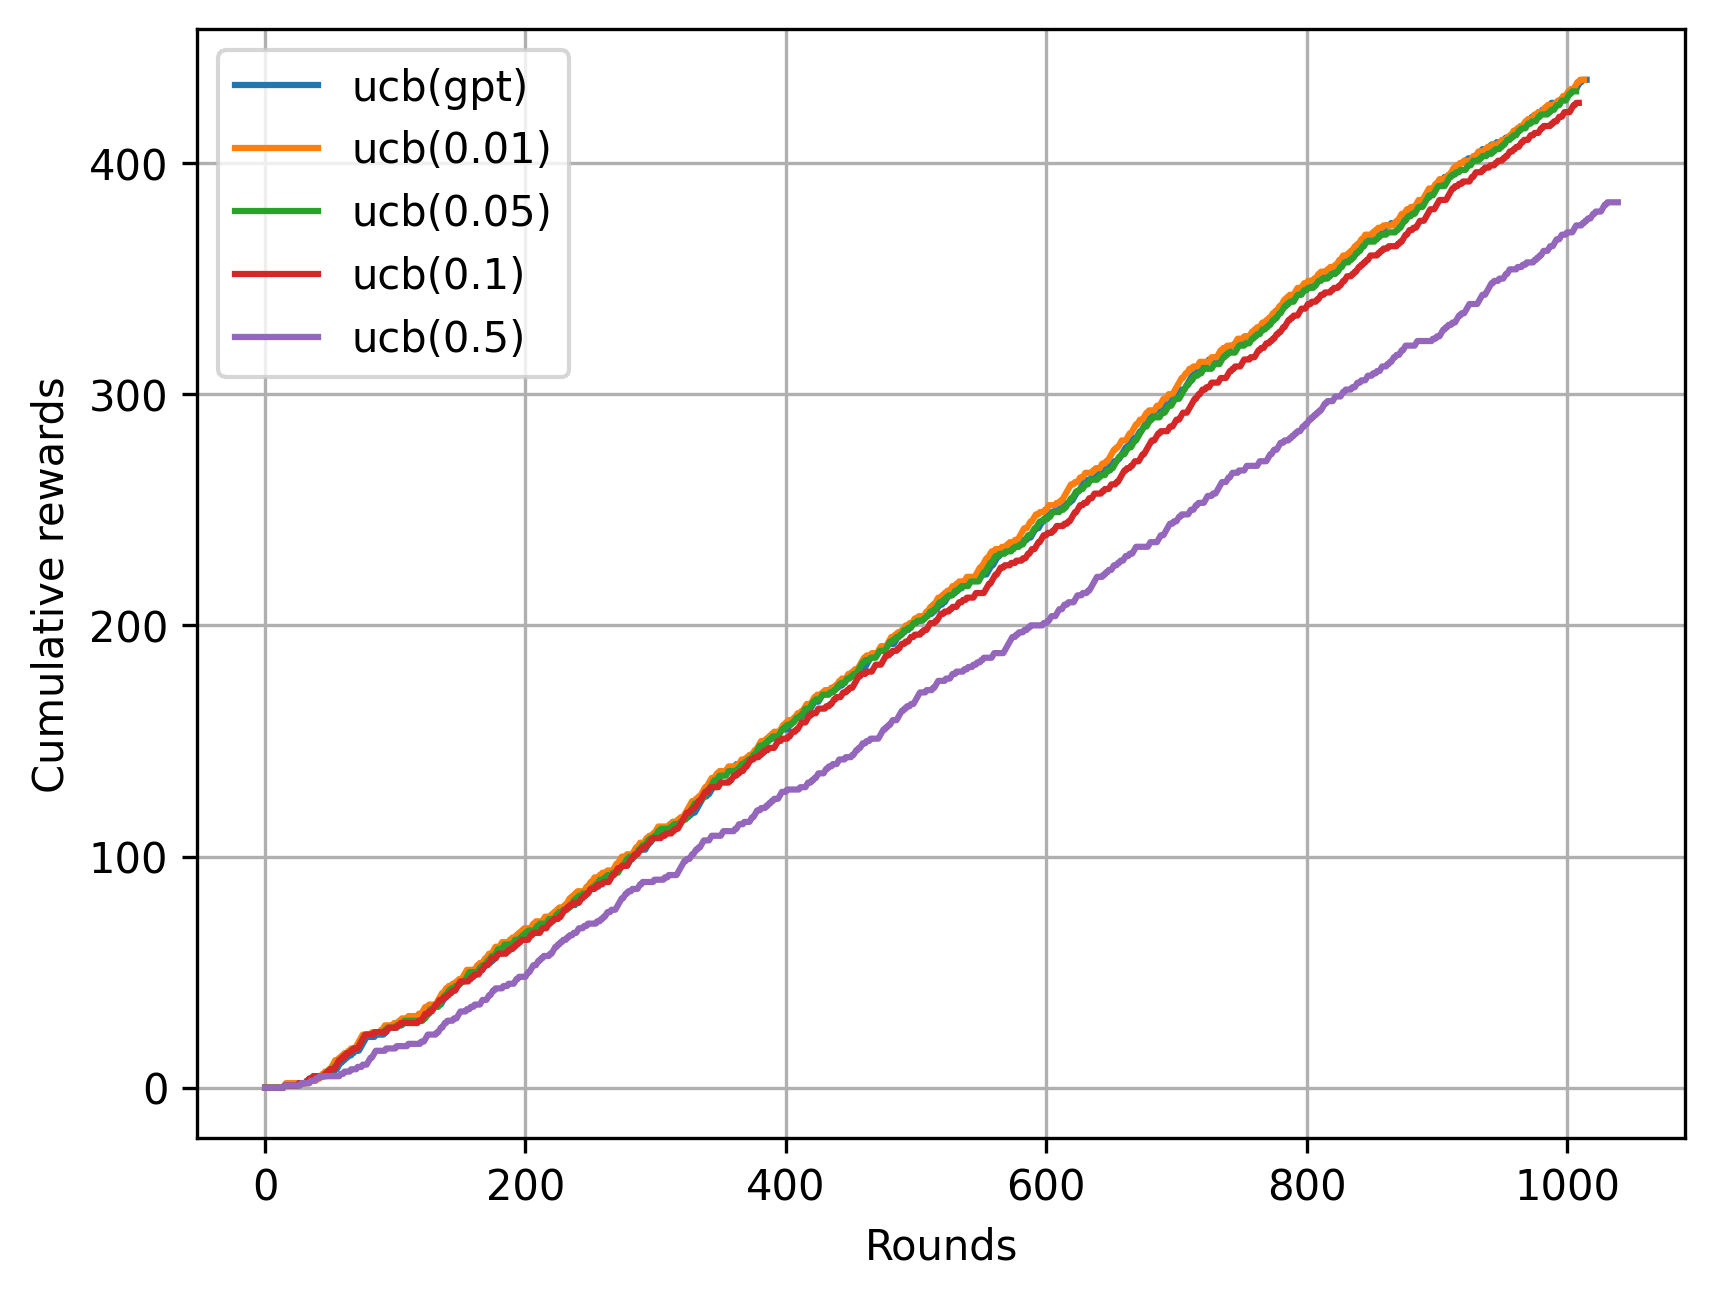
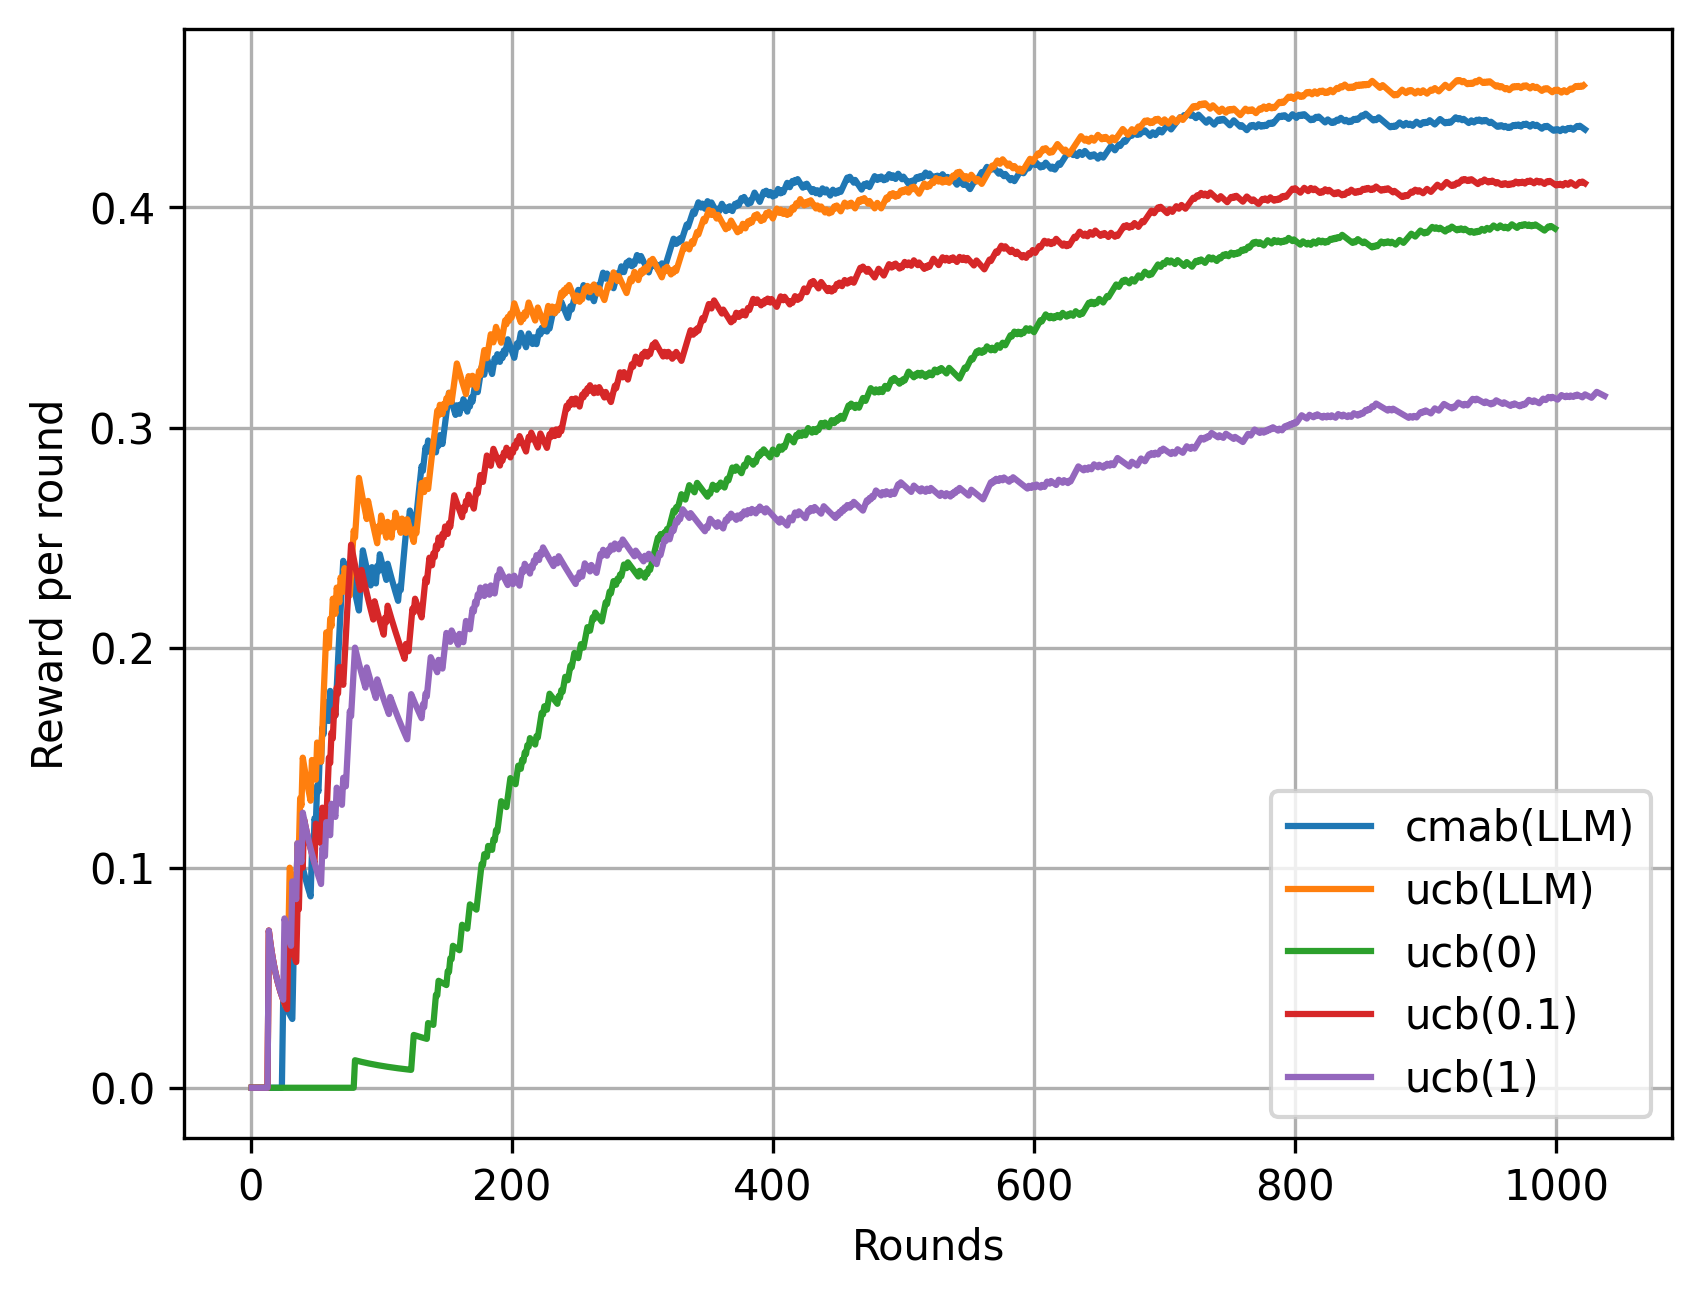
update

diff --git a/examples/webRecSystem.py b/examples/webRecSystem.py
@@ -2,21 +2,73 @@ import numpy as np
 import matplotlib.pyplot as plt
 from mpire import WorkerPool
 import copy
+import math
 
 from zomba.singleObjective.applications import webRecEnv
 from zomba.singleObjective.stochastic import SLBUCB
+from zomba.core import contextMABAgent
 
 
-def ucb_scalar1(round: int, observed_rewards: list, action_history: list) -> float:
-    return 1 / (round+1)
+def ucb_scalar(observed_rewards, action_history, counts):
+    total_counts = np.sum(counts)
+    arm_index = action_history[-1]  # Index of the most recent chosen arm
+    arm_count = counts[arm_index]
+    
+    if arm_count == 0:
+        return float('inf')  # Return infinity to ensure unexplored arms are chosen
+    
+    UCB_coefficient = np.sqrt(2 * np.log(total_counts) / arm_count)
+    
+    # Adjust UCB coefficient based on arm counts and selection frequency
+    adjusted_UCB_coefficient = UCB_coefficient * np.sqrt(np.log(total_counts) / (counts + 1)) * np.sqrt(arm_count / total_counts) * np.sqrt(np.log(total_counts) / (arm_count + 1)) * np.sqrt(np.log(total_counts) / (total_counts + 1)) * np.sqrt(1 / (counts + 1)) * np.sqrt(arm_count / total_counts)
+    
+    return adjusted_UCB_coefficient
 
+def ucb_scalar_log(round: int) -> float: 
+    return 1 / math.log(round+2)
 
-class ucb1(SLBUCB): 
+class ucb_log(SLBUCB): 
     def take_action(self, context: np.ndarray, alpha: float = None) -> int:
-        alpha = ucb_scalar1(round=self.t,
-                            observed_rewards=self.reward_list,
-                            action_history=self.action_list)
+        alpha = ucb_scalar_log(round=self.t)
         return super().take_action(context, alpha)
+
+class ucb_gpt(SLBUCB): 
+    def take_action(self, context: np.ndarray, alpha: float = None) -> int:
+        alpha = ucb_scalar(observed_rewards=self.reward_list,
+                           action_history=self.action_list,
+                           counts=self.counts)
+        return super().take_action(context, alpha)
+
+def heuristic(round: int, context: np.ndarray, context_history: np.ndarray, action_history: list, rewards_history: list, counts: np.ndarray) -> int:
+    n_arms = context.shape[0]
+    n_features = context.shape[1]
+    epsilon = 1e-6  # Small constant to avoid division by zero
+    initial_exploration_factor = 0.15  # Adjusted initial exploration factor
+    exploration_decay = 0.97  # Decay factor for exploration factor
+    
+    # Adjusted exploration factor for balancing exploration and exploitation
+    exploration_factor = initial_exploration_factor * exploration_decay ** round
+    
+    # UCB calculation for each arm
+    ucb_values = np.zeros(n_arms)
+    for arm in range(n_arms):
+        if counts[arm] == 0:
+            ucb_values[arm] = float('inf')
+        else:
+            context_arm = context[arm].reshape(1, -1)
+            X = np.vstack([context_history, context_arm])
+            y = np.array(rewards_history + [0])  # Include a placeholder for the new arm
+            theta = np.linalg.lstsq(X, y, rcond=None)[0]
+            est_reward = np.dot(theta, context_arm.T)
+            uncertainty = np.sqrt(np.dot(context_arm, np.linalg.inv(np.dot(X.T, X) + epsilon * np.eye(n_features))).dot(context_arm.T))
+            ucb_values[arm] = est_reward + exploration_factor * np.sqrt(2 * np.log(round) / counts[arm]) * uncertainty
+    
+    return np.argmax(ucb_values)
+
+class cmab(contextMABAgent):
+    def take_action(self, context: np.ndarray) -> int:
+        return heuristic(round=self.round, context=context, context_history=self.context_his,
+                         action_history=self.action_list, rewards_history=self.reward_list, counts=self.counts)
 
 
 def offlineEvaluate(mab, env, num_rounds: int = None):
@@ -24,6 +76,19 @@ def offlineEvaluate(mab, env, num_rounds: int = None):
     env.reset() 
     mab.reset() 
     R = []          # save the total payoff
+    # Play each arm once at first
+    for i in range(env.num_arm): 
+        while env.has_next(): 
+            X = env.observe_context() 
+            a_t = i
+            r_t = env.get_reward(arm=a_t)
+            if r_t == None: 
+                env.update_id()
+                continue 
+            R.append(r_t)
+            mab.update((a_t, r_t, X[a_t]))
+            env.update_id()
+            break
 
     while env.has_next(): 
         if mab.round == num_rounds: 
@@ -45,26 +110,27 @@ def offlineEvaluate(mab, env, num_rounds: int = None):
 
 
 def main():
-    env = webRecEnv()
+    dataset = np.loadtxt("data/dataset.txt")
+    env = webRecEnv(data=dataset)
     K = env.num_arm 
     d = env.num_dim
     env.reset(verbose=1)
-    banditAlgs = {"ucb(gpt)": ucb1(num_arm=K, num_dim=d), 
-                  "ucb(0.01)": SLBUCB(num_arm=K, num_dim=d, alpha=0.01), 
-                  "ucb(0.05)": SLBUCB(num_arm=K, num_dim=d, alpha=0.05), 
+    banditAlgs = {"cmab(LLM)": cmab(num_arm=K, num_dim=d), 
+                  "ucb(LLM)": ucb_gpt(num_arm=K, num_dim=d), 
+                  "ucb(0)": SLBUCB(num_arm=K, num_dim=d, alpha=0.0), 
                   "ucb(0.1)": SLBUCB(num_arm=K, num_dim=d, alpha=0.1), 
-                  "ucb(0.5)": SLBUCB(num_arm=K, num_dim=d, alpha=0.5), }
+                  "ucb(1)": SLBUCB(num_arm=K, num_dim=d, alpha=1), }
     with WorkerPool() as Pool: 
         args = [(mab, copy.deepcopy(env)) for mab in banditAlgs.values()]
         rewards = Pool.map(offlineEvaluate, args)
 
     fig = plt.figure()
     for i, r in enumerate(rewards): 
-        cum_r = np.array(r).cumsum()
+        cum_r = np.array(r).cumsum() / np.arange(len(r))
         plt.plot(range(len(cum_r)), cum_r, label=list(banditAlgs.keys())[i])
     plt.legend()
     plt.xlabel("Rounds")
-    plt.ylabel("Cumulative rewards")
+    plt.ylabel("Reward per round")
     plt.grid()
     fig.savefig('webRec.png', dpi=300, bbox_inches='tight')
 

diff --git a/src/zomba/singleObjective/applications/webRec.py b/src/zomba/singleObjective/applications/webRec.py
@@ -1,11 +1,10 @@
 import numpy as np
 from zomba.core import contextMABEnv 
 
-# load dataset 
-data = np.loadtxt("./data/dataset.txt")
+
 
 class webRecEnv(contextMABEnv): 
-    def __init__(self, data: np.ndarray = data) -> None:
+    def __init__(self, data: np.ndarray) -> None:
         arms, rewards, contexts = data[:,0], data[:,1], data[:,2:]
         self.arms = arms.astype(int)
         self.rewards = rewards.astype(float)

diff --git a/src/zomba/core/agent.py b/src/zomba/core/agent.py
@@ -33,7 +33,7 @@ class MABAgent:
     
     @property
     def action_his(self): 
-        return np.array(self.reward_list)
+        return np.array(self.action_list)
     
     def reset(self, 
               num_arm: int = None, 
